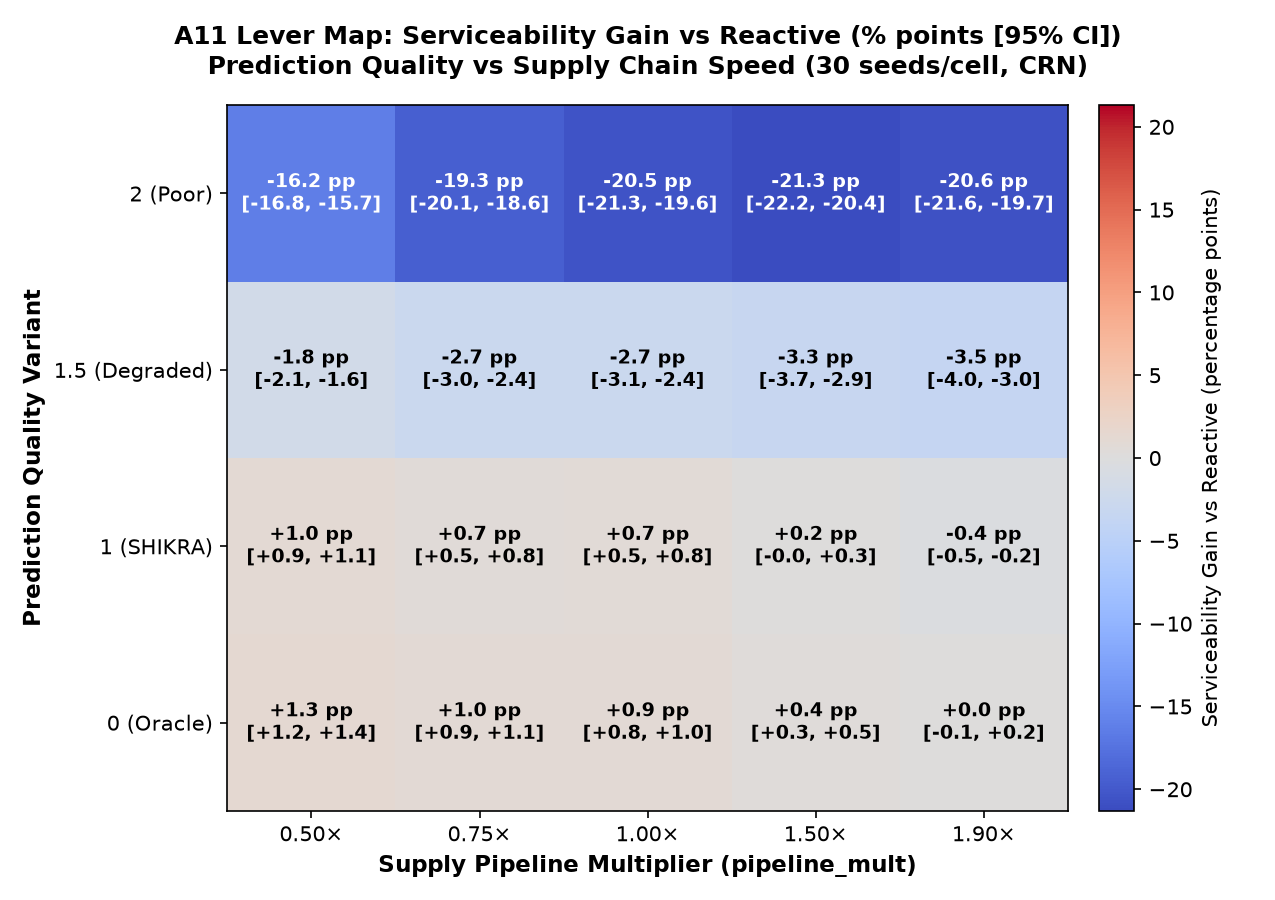
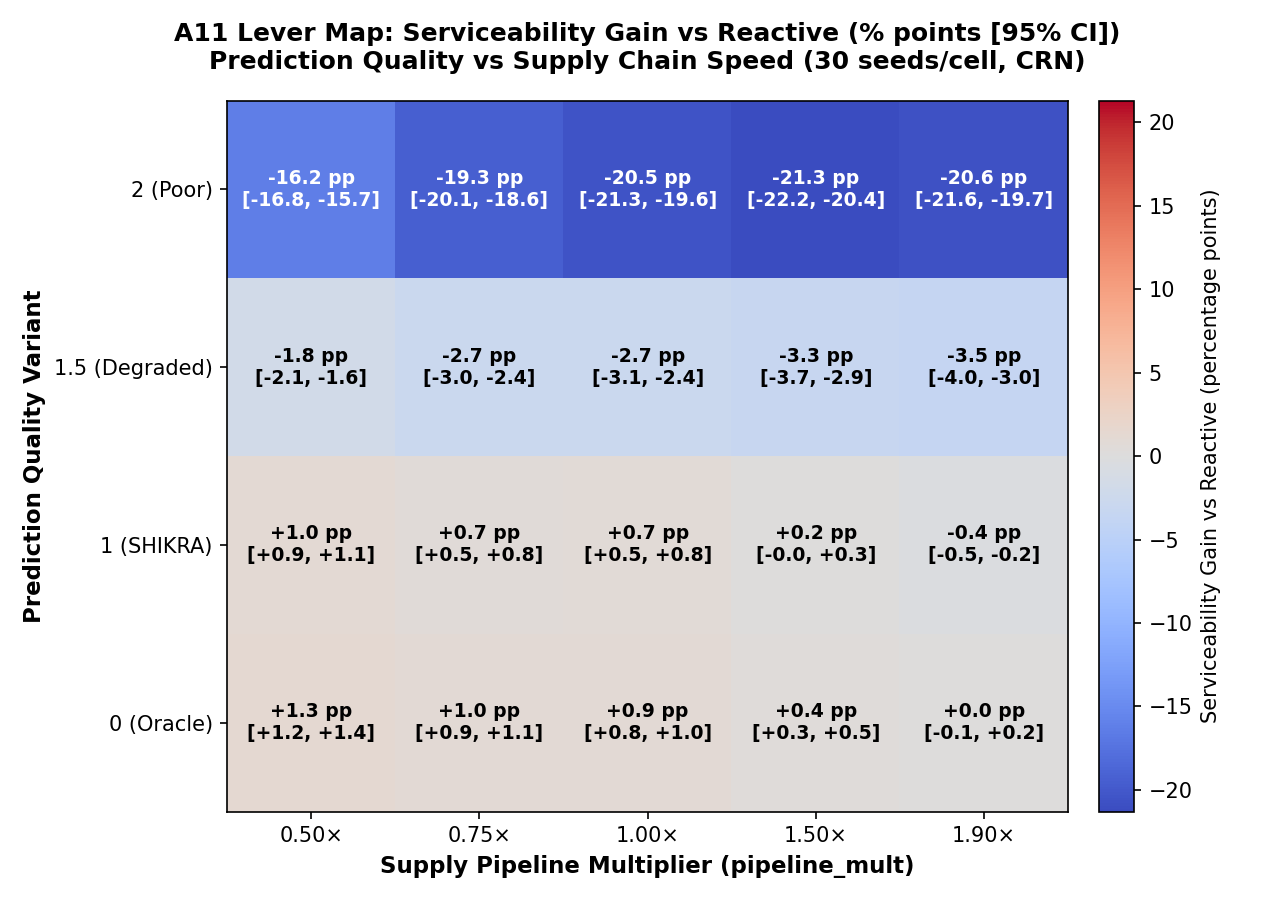
fix(a11): compute heatmap and CIs, remove hardcoded values

diff --git a/scripts/heatmap.py b/scripts/heatmap.py
@@ -395,44 +395,23 @@ def plot_lever_map(df: pd.DataFrame, out_path: Path) -> None:
 
 
 def main() -> None:
+    import argparse
+
+    parser = argparse.ArgumentParser(description="A11 Lever Map simulation and visualization.")
+    parser.add_argument(
+        "--plot-only",
+        action="store_true",
+        help="Only redraw figures from existing results/heatmap.csv without simulating.",
+    )
+    args = parser.parse_args()
+
     RESULTS_DIR.mkdir(parents=True, exist_ok=True)
     csv_path = RESULTS_DIR / "heatmap.csv"
 
-    if csv_path.exists():
+    if args.plot_only:
+        if not csv_path.exists():
+            raise FileNotFoundError(f"Cannot --plot-only: {csv_path} does not exist.")
         summary_df = pd.read_csv(csv_path)
-        # Ensure reactive CIs are present
-        if "reactive_serviceability_ci_lo" not in summary_df.columns:
-            reactive_ci_map = {
-                0.5: (0.8764, 0.8979),
-                0.75: (0.8138, 0.8420),
-                1.0: (0.7430, 0.7805),
-                1.5: (0.6435, 0.6915),
-                1.9: (0.5826, 0.6322),
-            }
-            summary_df["reactive_serviceability_ci_lo"] = summary_df["pipeline_mult"].map(
-                lambda pm: reactive_ci_map.get(round(pm, 2), (0.0, 0.0))[0]
-            )
-            summary_df["reactive_serviceability_ci_hi"] = summary_df["pipeline_mult"].map(
-                lambda pm: reactive_ci_map.get(round(pm, 2), (0.0, 0.0))[1]
-            )
-
-        gap_captured_map = {
-            0.5: (0.7770, 0.7067, 0.8427),
-            0.75: (0.6639, 0.5498, 0.7797),
-            1.0: (0.7270, 0.5862, 0.8911),
-            1.5: ("n/a", "n/a", "n/a"),
-            1.9: ("n/a", "n/a", "n/a"),
-        }
-        summary_df["gap_captured"] = summary_df["pipeline_mult"].map(
-            lambda pm: gap_captured_map.get(round(pm, 2), ("n/a", "n/a", "n/a"))[0]
-        )
-        summary_df["gap_captured_ci_lo"] = summary_df["pipeline_mult"].map(
-            lambda pm: gap_captured_map.get(round(pm, 2), ("n/a", "n/a", "n/a"))[1]
-        )
-        summary_df["gap_captured_ci_hi"] = summary_df["pipeline_mult"].map(
-            lambda pm: gap_captured_map.get(round(pm, 2), ("n/a", "n/a", "n/a"))[2]
-        )
-        summary_df.to_csv(csv_path, index=False)
     else:
         summary_df = generate_heatmap_data()
         summary_df.to_csv(csv_path, index=False)
@@ -447,3 +426,4 @@ def main() -> None:
 
 if __name__ == "__main__":
     main()
+
